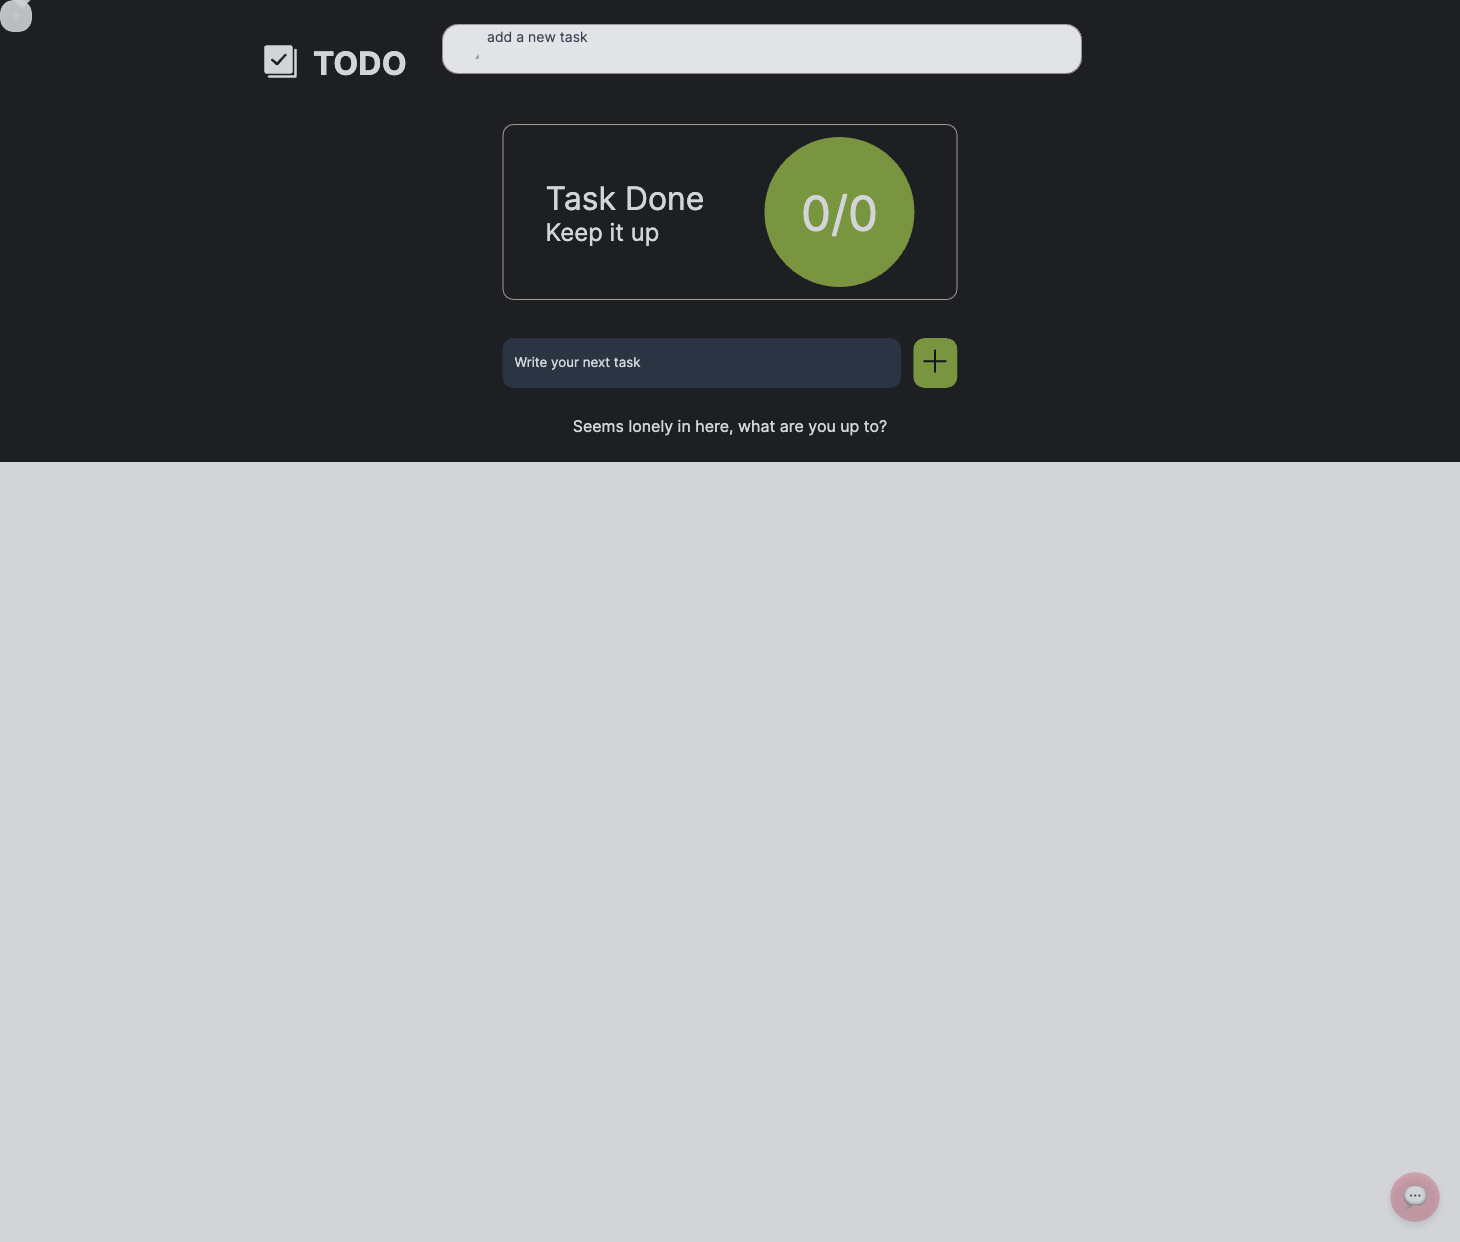
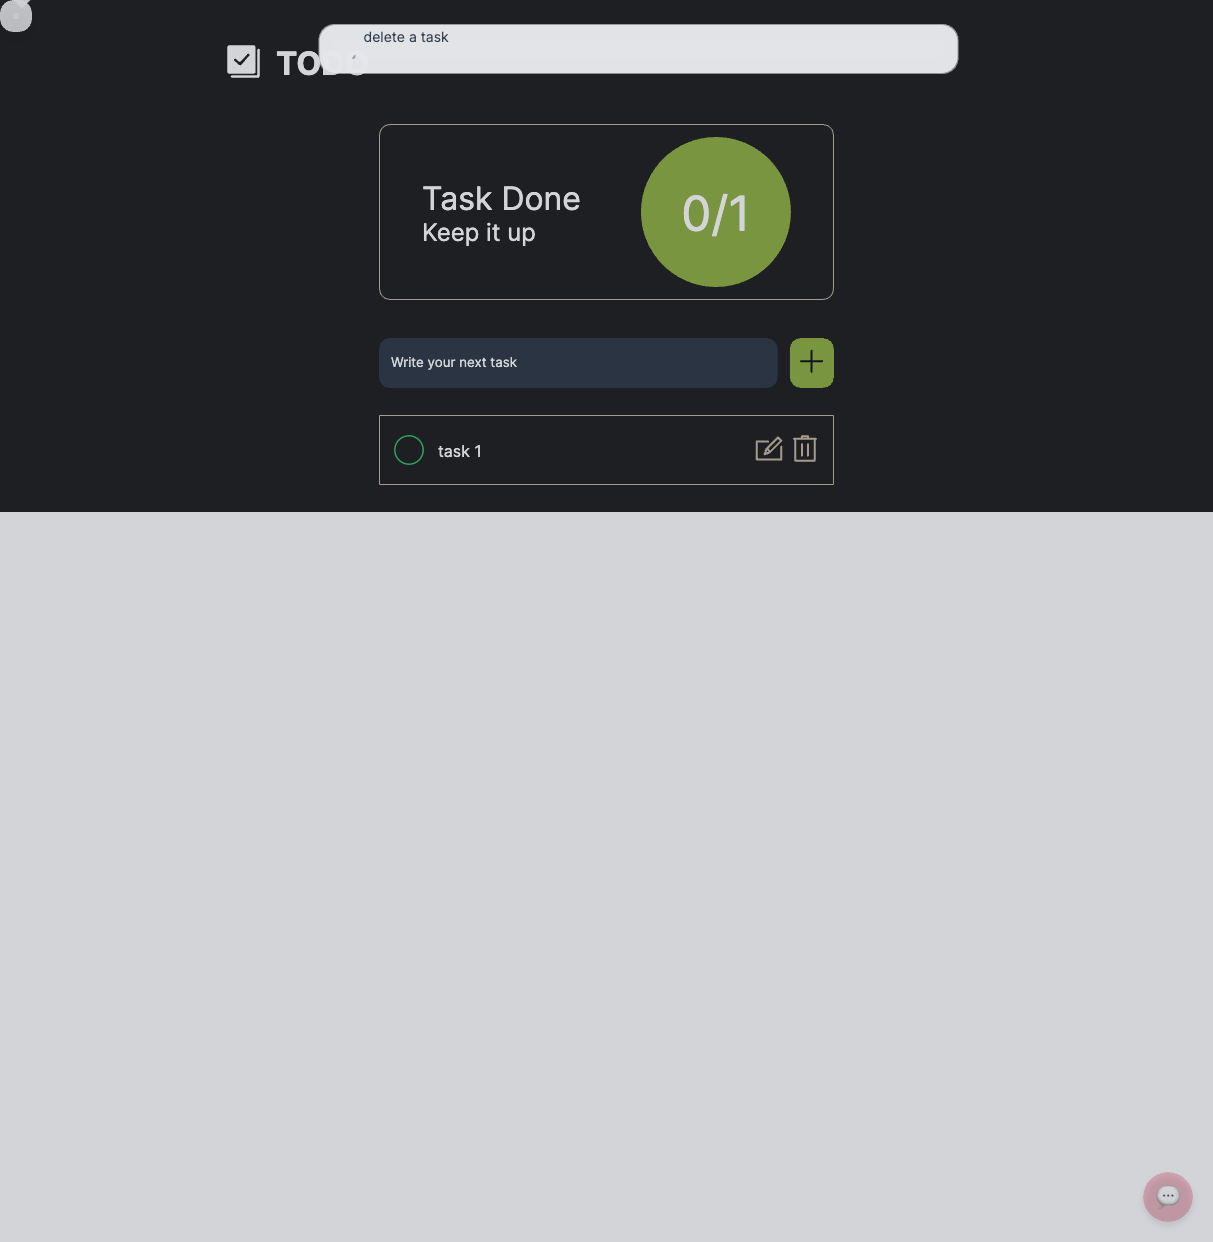
batched benchmark

diff --git a/backend/app/benchmark/simple/dom.html b/backend/app/benchmark/simple/dom.html
@@ -1,1 +1,1 @@
-<html xmlns="http://www.w3.org/1999/xhtml" lang="en" data-headlessui-focus-visible=""><head><title>Todo app</title></head><body class="__className_aaf875"><div class="wrapper"><div>Click the plus button to add your new task.</div><button class="Gandalf_widgetButton__QEtDu" aria-label="Toggle chat">💬</button><header><svg xmlns="http://www.w3.org/2000/svg" clip-rule="evenodd" fill-rule="evenodd" stroke-linejoin="round" stroke-miterlimit="2" viewBox="0 0 24 24" width="40" height="40" fill="#fff"/><h1>TODO</h1></header><section class="todohero_section" id="todo-hero-section"><div><p class="text_large">Task Done</p><p class="text_small">Keep it up</p></div><div>0/0</div></section><form class="form"><label for="todo"></label><button id="todo_button"><span class="visually-hidden">Submit</span><svg clip-rule="evenodd" fill-rule="evenodd" stroke-linejoin="round" stroke-miterlimit="2" viewBox="0 0 24 24" xmlns="http://www.w3.org/2000/svg" width="32" height="32"/></button></form><ol class="todo_list"><p>Seems lonely in here, what are you up to?</p></ol></div></body></html>
+<html xmlns="http://www.w3.org/1999/xhtml" lang="en" data-headlessui-focus-visible=""><head><title>Todo app</title></head><body class="__className_aaf875"><div class="wrapper"><div class="Gandalf_container__QZV_I"></div><div></div><button class="Gandalf_widgetButton__QEtDu" aria-label="Toggle chat">💬</button><header><svg xmlns="http://www.w3.org/2000/svg" clip-rule="evenodd" fill-rule="evenodd" stroke-linejoin="round" stroke-miterlimit="2" viewBox="0 0 24 24" width="40" height="40" fill="#fff"/><h1>TODO</h1></header><section class="todohero_section" id="todo-hero-section"><div><p class="text_large">Task Done</p><p class="text_small">Keep it up</p></div><div>0/1</div></section><form class="form"><label for="todo"></label><button id="todo_button" disabled=""><span class="visually-hidden">Submit</span><svg clip-rule="evenodd" fill-rule="evenodd" stroke-linejoin="round" stroke-miterlimit="2" viewBox="0 0 24 24" xmlns="http://www.w3.org/2000/svg" width="32" height="32"/></button></form><ol class="todo_list"><li id="6c72fc59-e7ad-4806-96a1-13851406d292" class="todo_item"><button class="todo_items_left"><svg clip-rule="evenodd" fill-rule="evenodd" stroke-linejoin="round" stroke-miterlimit="2" viewBox="0 0 24 24" xmlns="http://www.w3.org/2000/svg" width="34" height="34" stroke="#22C55E" fill="#0d0d0d"/><p>task 1</p></button><div class="todo_items_right"><button id="edit-todo-button"><span class="visually-hidden">Edit</span><svg clip-rule="evenodd" fill-rule="evenodd" stroke-linejoin="round" stroke-miterlimit="2" viewBox="0 0 24 24" xmlns="http://www.w3.org/2000/svg" width="32" height="34"/></button><button id="delete-todo-button"><span class="visually-hidden">Delete</span><svg xmlns="http://www.w3.org/2000/svg" clip-rule="evenodd" fill-rule="evenodd" stroke-linejoin="round" stroke-miterlimit="2" viewBox="0 0 24 24" width="32" height="34"/></button></div></li></ol></div><div id="headlessui-portal-root"><div data-headlessui-portal=""><div><div class="Input_dialog__uNc7f" data-transition="" id="headlessui-dialog-:r0:" role="dialog" tabindex="-1" aria-modal="true" data-headlessui-state="open" data-open="" data-leave=""><form><div class="Input_container__p4ao7"><div class="Input_dialogPanel__xHMJe" id="headlessui-dialog-panel-:r7:" data-headlessui-state="open" data-open=""><div><svg aria-hidden="true" focusable="false" data-prefix="fas" data-icon="magnifying-glass" class="svg-inline--fa fa-magnifying-glass Input_searchIcon__l_POF" role="img" xmlns="http://www.w3.org/2000/svg" viewBox="0 0 512 512"/></div></div></div></form></div></div></div></div></body></html>

diff --git a/test-app/src/components/Form.jsx b/test-app/src/components/Form.jsx
@@ -1,8 +1,13 @@
+import { useState } from "react"
+
 function Form({ todos, setTodos }) {
+
+  const [inputValue, setInputValue] = useState("")
+
   const handleSubmit = (event) => {
     event.preventDefault();
 
-    const value = event.target.todo.value;
+    const value = event.target.todo_input.value;
     const newTodo = {
       title: value,
       id: self.crypto.randomUUID(),
@@ -25,12 +30,14 @@ function Form({ todos, setTodos }) {
         <input
           type="text"
           name="todo input"
-          id="todo input"
+          id="todo_input"
+          value={inputValue}
+          onChange={e => setInputValue(e.target.value)}
           placeholder="Write your next task"
         />
       </label>
 
-      <button id="todo_button">
+      <button id="todo_button" disabled={inputValue === ""}>
         <span className="visually-hidden">Submit</span>
         <svg
           clipRule="evenodd"

diff --git a/backend/app/benchmark/verify_batch.py b/backend/app/benchmark/verify_batch.py
@@ -1,0 +1,70 @@
+import subprocess
+import threading
+import json
+import csv
+
+def run_command(command, results, index):
+    process = subprocess.Popen(command, stdout=subprocess.PIPE, stderr=subprocess.PIPE, shell=True)
+    stdout, stderr = process.communicate()
+    results[index] = {'stdout': stdout.decode('utf-8'), 'stderr': stderr.decode('utf-8')}
+
+
+tests = {
+    "simple": [
+        "How can I create a new task",
+        "How can I delete a task",
+        "How can I complete a task",
+        "How can I modify a task"
+    ]
+}
+
+script_path = "backend/app/benchmark"
+
+def main():
+    threads = []
+    commands = []
+    webpages = []
+    inputs = []
+
+    for (webpage, user_inputs) in tests.items():
+        for user_input in user_inputs:
+            webpages.append(webpage)
+            inputs.append(user_input)
+            commands.append(f"python3 {script_path}/verify_ai.py {script_path}/{webpage}/dom.html {script_path}/{webpage}/screenshot.png \"{user_input}\"")
+    print("Running these commands:")
+    print("\n".join(commands))
+
+    results = [None] * len(commands)
+    
+    for i, command in enumerate(commands):
+        thread = threading.Thread(target=run_command, args=(command, results, i))
+        threads.append(thread)
+        thread.start()
+
+    for thread in threads:
+        thread.join()
+    
+    data = []
+    for index, r in enumerate(results):
+        if r['stderr'] != '':
+            print(f"Error running {commands[index]}: {r['stderr']}")
+        else:
+            print(f"parsing {r['stdout']}")
+            ai_output = json.loads(r['stdout'])
+            ai_output['webpage'] = webpages[index]
+            ai_output['user input'] = user_inputs[index]
+            data.append(ai_output)
+            
+    with open("batched.csv", mode='w', newline='') as file:
+        # Create a CSV DictWriter object
+        writer = csv.DictWriter(file, fieldnames=["webpage", "user input", "Instructions", "selector", "hasMoreInstructions"])
+        
+        # Write the header (column names)
+        writer.writeheader()
+        
+        # Write the data rows
+        for row in data:
+            writer.writerow(row)
+
+if __name__ == "__main__":
+    main()

diff --git a/backend/app/get_instruction.py b/backend/app/get_instruction.py
@@ -38,7 +38,8 @@ def get_instruction(
                         "You must ONLY return the following JSON format, if you don't know any of the fields, just leave it blank: { Instructions: , selector: , }\n"
                         "3- A true or false flag 'hasMoreInstructions' indicating whether there are more steps after the current one.\n"
                         "4- You must ONLY return the following JSON format: { Instructions: , selector: , hasMoreInstructions: }\n"
-                        "An example of a properly formatted response would be: { Instructions: Click the submit button, Instructions: , selector: .submit-button, hasMoreInstructions: false }\n"
+                        "An example of a properly formatted response would be: { Instructions: \"Click the submit button\", selector: \".submit-button\", hasMoreInstructions: false }\n"
+                        "Only return the JSON without wrapping it in anything else."
                     ),
                 }
             ],
@@ -93,6 +94,6 @@ def get_instruction(
     response = openai.chat.completions.create(
         model="gpt-4o",
         messages=messages,
-        temperature=0.2,
+        temperature=0,
     )
     return response.choices[0].message.content

diff --git a/backend/app/benchmark/prepare_screenshot.py b/backend/app/benchmark/prepare_screenshot.py
@@ -11,6 +11,7 @@ def main():
     
     args = parser.parse_args()
     file_path = args.screenshot_path
+    supabase.storage.from_(bucket_name).remove([file_path])
     supabase.storage.from_(bucket_name).upload(
         file_path, file_path
     )
